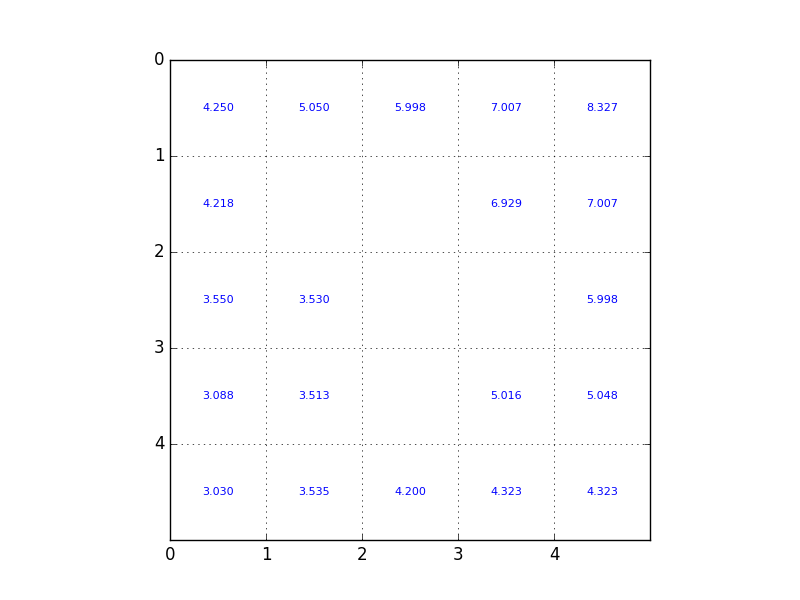
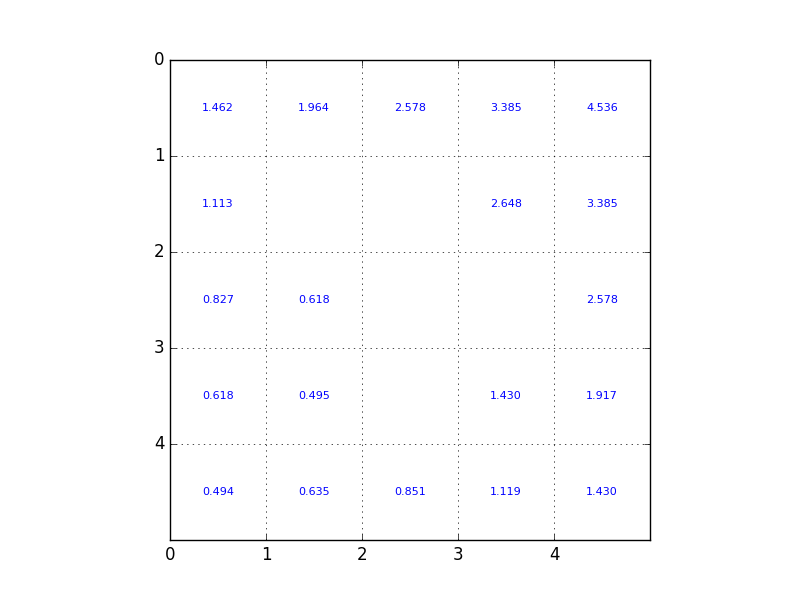
Redid 2.5 images

diff --git a/lab3/src/param.py b/lab3/src/param.py
@@ -9,8 +9,8 @@ _ACTION_TYPE = 'lateral'    # 'lateral' for lateral movements only (parts 1.1 an
 
 _COMPLETION_PROB = .8       # This is the probability of a successful movement
 _GOAL_REWARD = 10           #
-_CORNER_REWARD = 0
-_OTHER_STATE_REWARD = 0
+_CORNER_REWARD = -5
+_OTHER_STATE_REWARD = -1
 _DISCOUNT_FACTOR = 0.8      # Lambda (discount factor)
 _NUM_ITER = 10
 _EPSILON = .001
